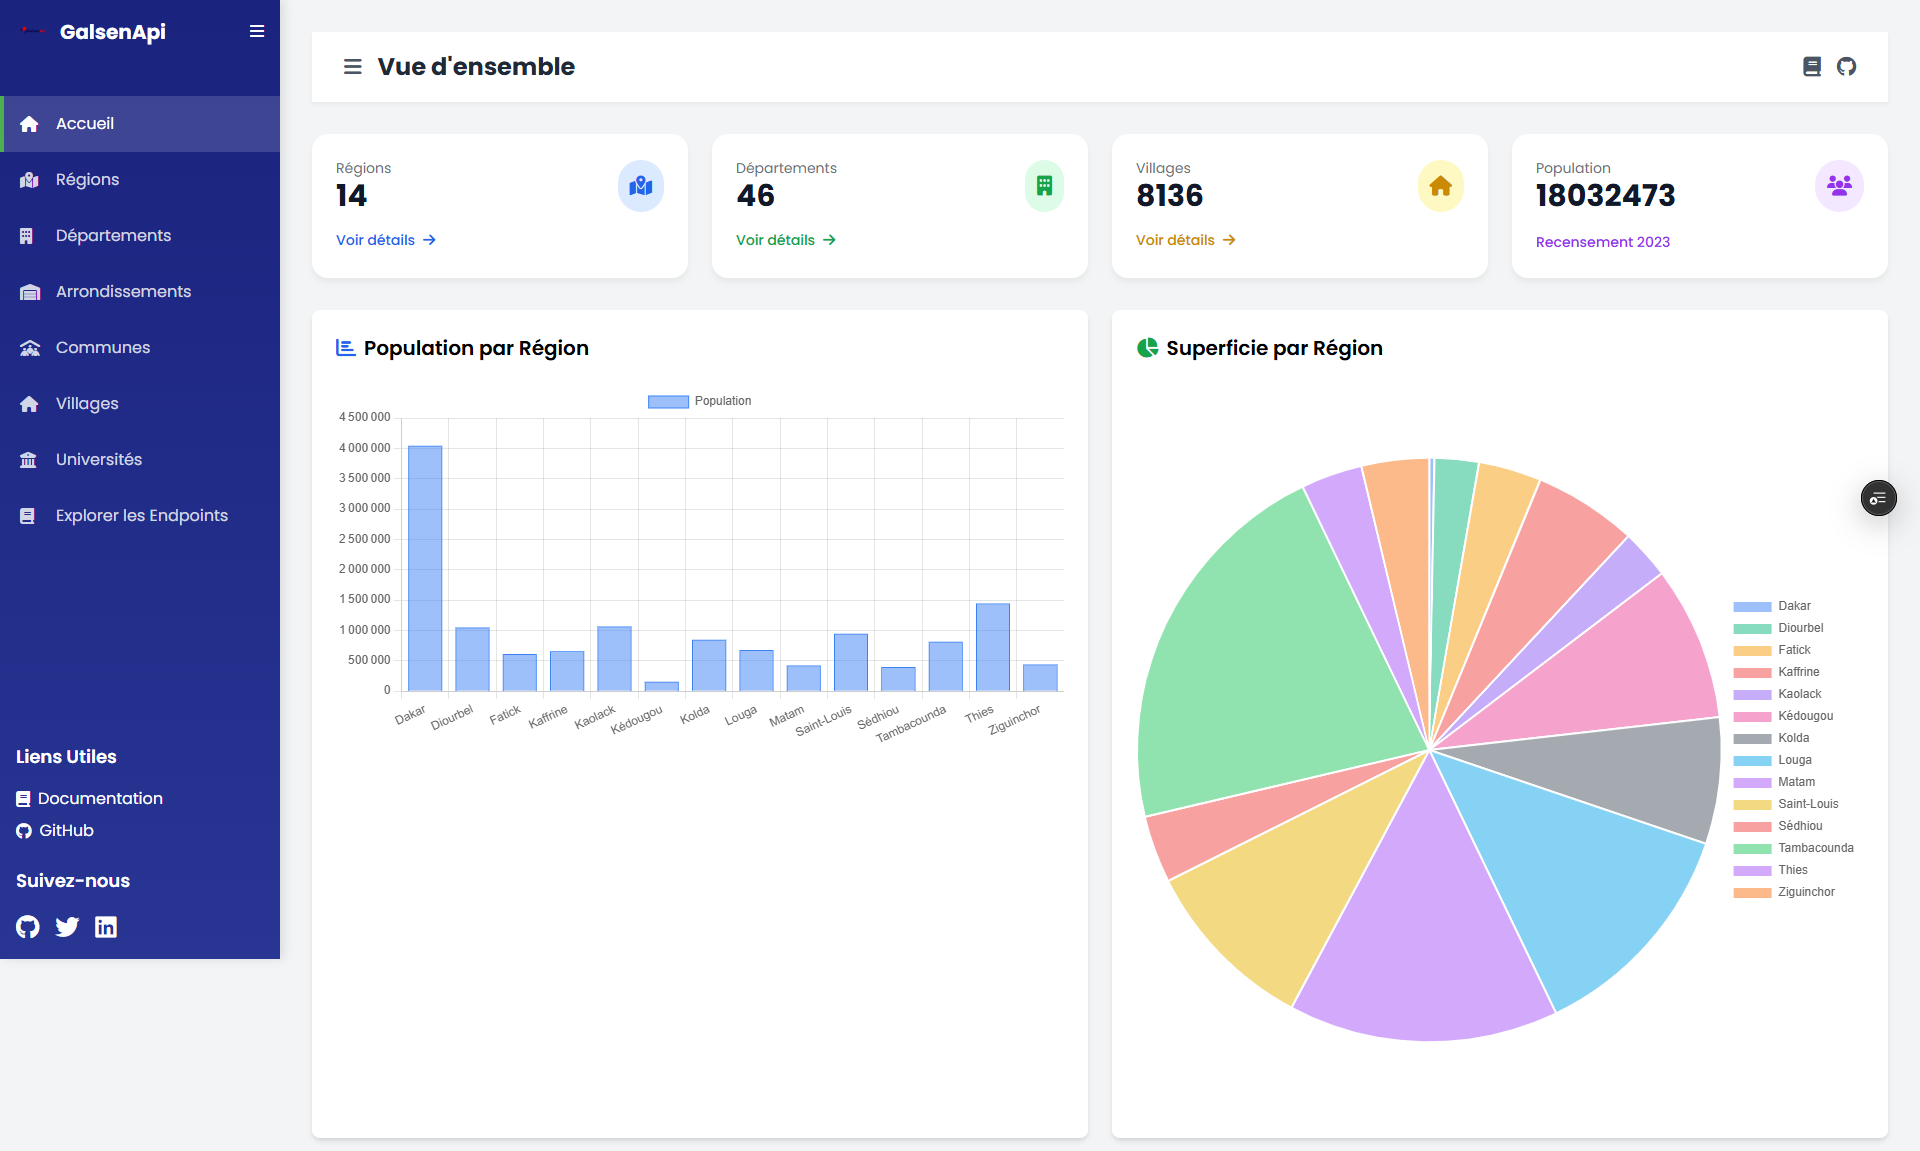
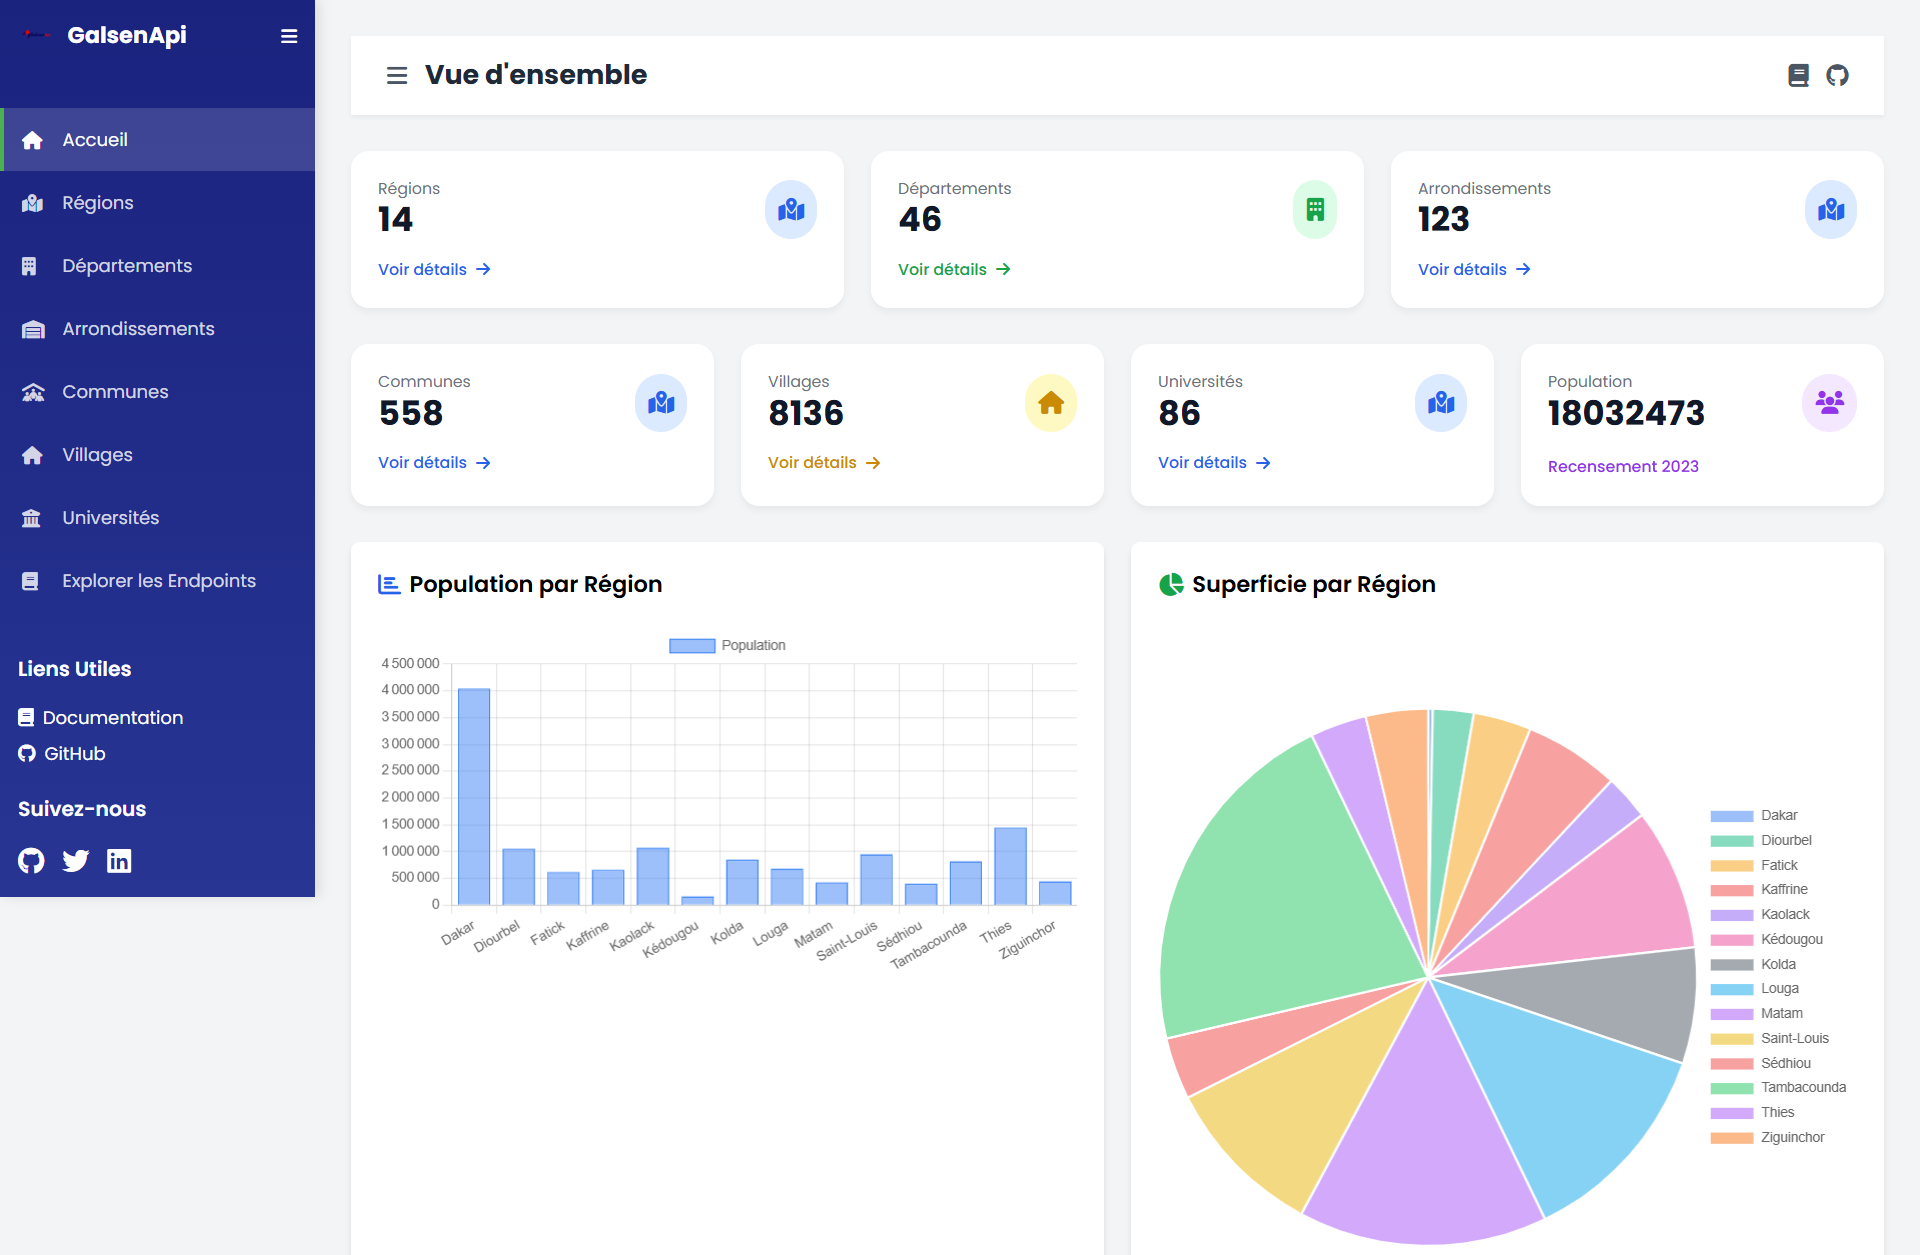
feat: Ajout de nouvelles sections pour les arrondissements, communes et universités dans pays.html

diff --git a/templates/pays.html b/templates/pays.html
@@ -3,7 +3,7 @@
 {% block page_title %}Vue d'ensemble{% endblock %}
 
 {% block content %}
-<div class="grid grid-cols-1 md:grid-cols-2 lg:grid-cols-4 gap-6 mb-8">
+<div class="grid grid-cols-1 md:grid-cols-3 gap-6 mb-8">
     <!-- Régions -->
     <div class="stats-card" data-aos="fade-up" data-aos-delay="100">
         <div class="flex items-center justify-between">
@@ -42,8 +42,48 @@
         </div>
     </div>
 
-    <!-- Villages -->
+    <!-- Arrondissements -->
     <div class="stats-card" data-aos="fade-up" data-aos-delay="300">
+        <div class="flex items-center justify-between">
+            <div>
+                <p class="text-gray-500 text-sm">Arrondissements</p>
+                <h3 class="text-3xl font-bold text-gray-900">{{ data_pays.arrondissements }}</h3>
+            </div>
+            <div class="bg-blue-100 p-3 rounded-full">
+                <i class="fas fa-map-marked-alt text-blue-600 text-xl"></i>
+            </div>
+        </div>
+        <div class="mt-4">
+            <a href="{% url 'arrondissement' %}" class="text-blue-600 hover:text-blue-800 text-sm font-medium flex items-center">
+                Voir détails
+                <i class="fas fa-arrow-right ml-2"></i>
+            </a>
+        </div>
+    </div>
+</div>
+
+<div class="grid grid-cols-1 md:grid-cols-4 gap-6 mb-8">
+    <!-- Communes -->
+    <div class="stats-card" data-aos="fade-up" data-aos-delay="100">
+        <div class="flex items-center justify-between">
+            <div>
+                <p class="text-gray-500 text-sm">Communes</p>
+                <h3 class="text-3xl font-bold text-gray-900">{{ data_pays.commune }}</h3>
+            </div>
+            <div class="bg-blue-100 p-3 rounded-full">
+                <i class="fas fa-map-marked-alt text-blue-600 text-xl"></i>
+            </div>
+        </div>
+        <div class="mt-4">
+            <a href="{% url 'commune' %}" class="text-blue-600 hover:text-blue-800 text-sm font-medium flex items-center">
+                Voir détails
+                <i class="fas fa-arrow-right ml-2"></i>
+            </a>
+        </div>
+    </div>
+
+    <!-- Villages -->
+    <div class="stats-card" data-aos="fade-up" data-aos-delay="200">
         <div class="flex items-center justify-between">
             <div>
                 <p class="text-gray-500 text-sm">Villages</p>
@@ -55,6 +95,25 @@
         </div>
         <div class="mt-4">
             <a href="{% url 'village' %}" class="text-yellow-600 hover:text-yellow-800 text-sm font-medium flex items-center">
+                Voir détails
+                <i class="fas fa-arrow-right ml-2"></i>
+            </a>
+        </div>
+    </div>
+
+    <!-- Universités -->
+    <div class="stats-card" data-aos="fade-up" data-aos-delay="300">
+        <div class="flex items-center justify-between">
+            <div>
+                <p class="text-gray-500 text-sm">Universités</p>
+                <h3 class="text-3xl font-bold text-gray-900">{{ data_pays.universite }}</h3>
+            </div>
+            <div class="bg-blue-100 p-3 rounded-full">
+                <i class="fas fa-map-marked-alt text-blue-600 text-xl"></i>
+            </div>
+        </div>
+        <div class="mt-4">
+            <a href="{% url 'universite' %}" class="text-blue-600 hover:text-blue-800 text-sm font-medium flex items-center">
                 Voir détails
                 <i class="fas fa-arrow-right ml-2"></i>
             </a>
